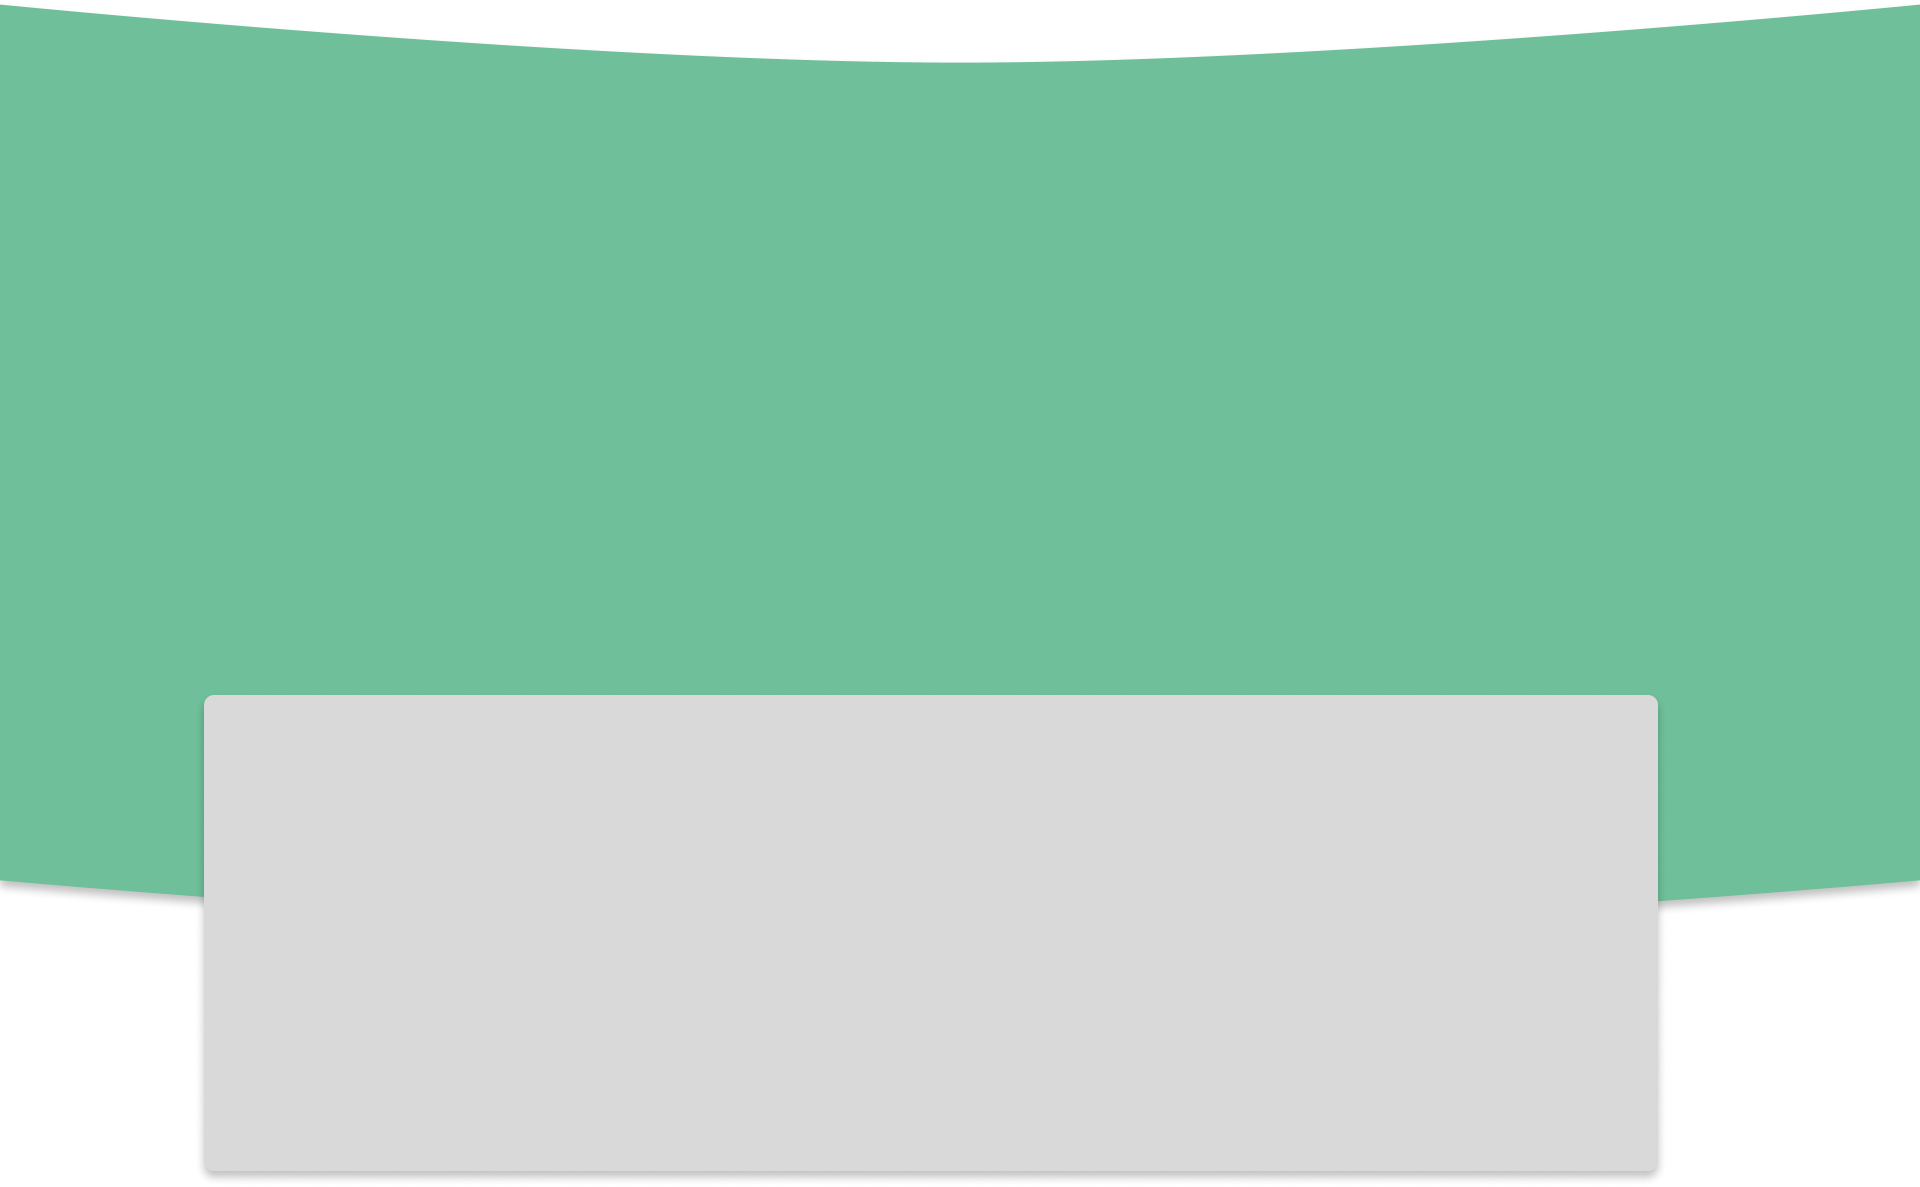
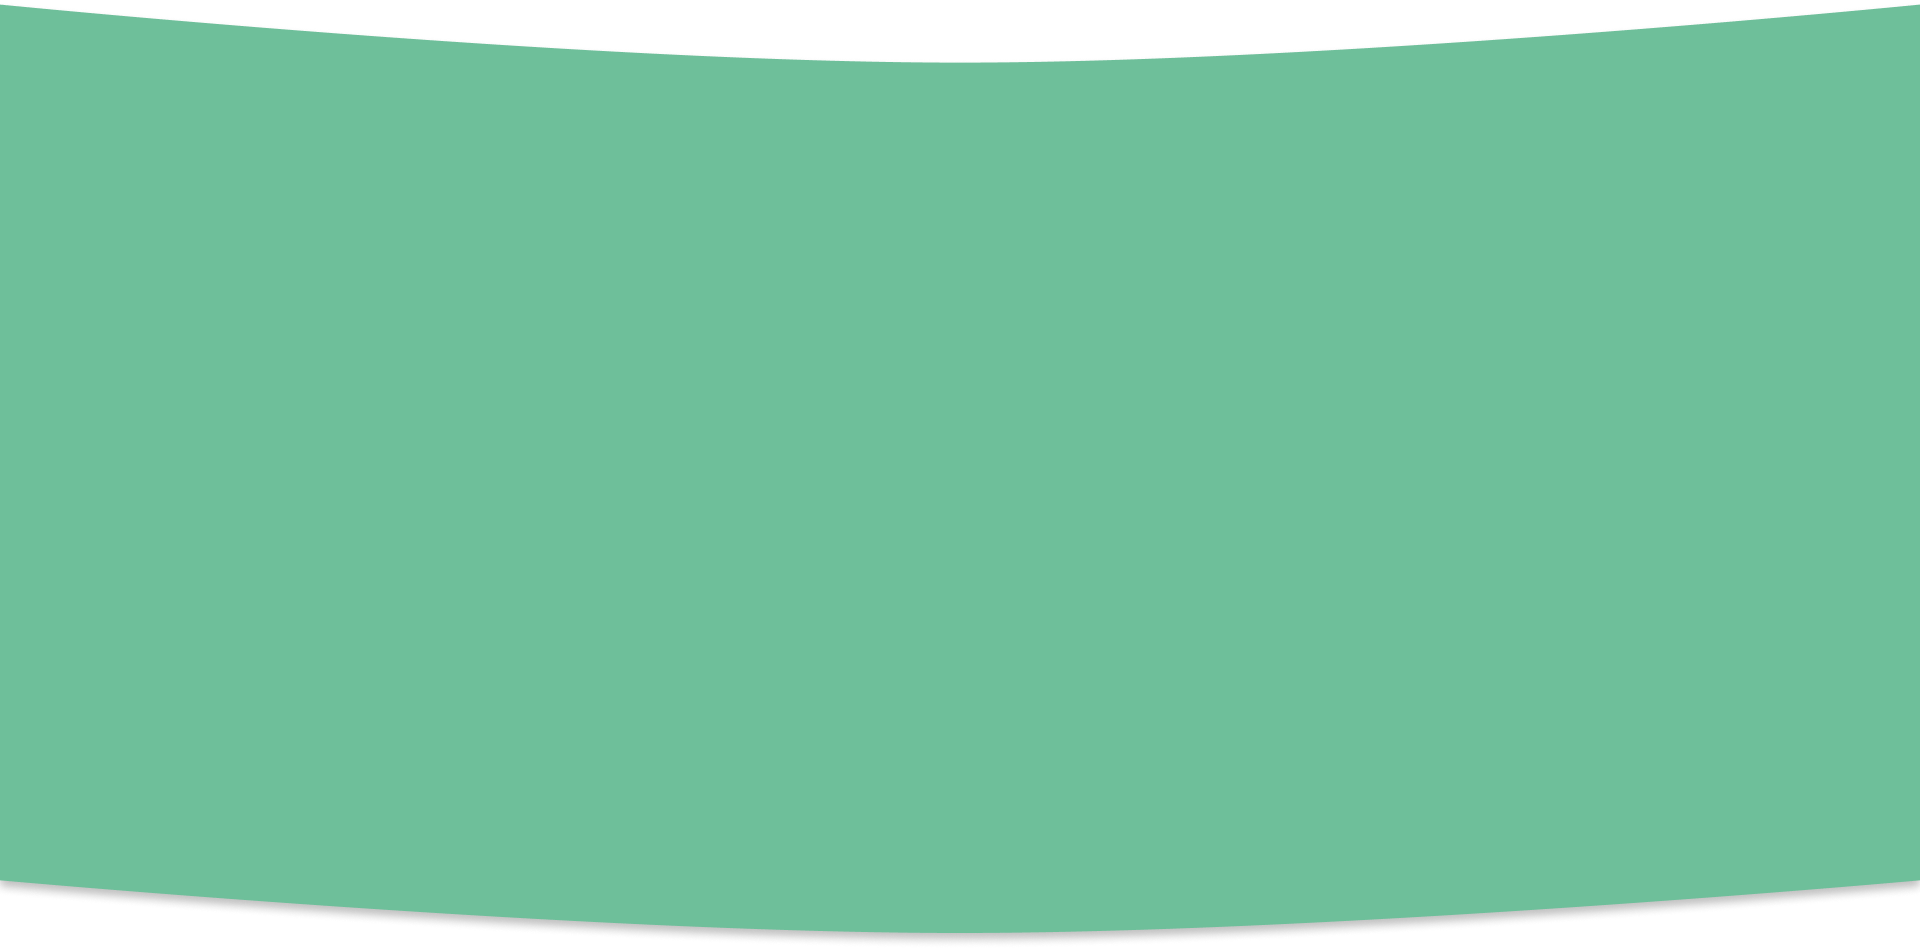
fix(Home) Img Argentina

diff --git a/Front-End/Us.html b/Front-End/Us.html
@@ -6,7 +6,7 @@
     <title>Satolution|Nosotros</title>
     <meta name='viewport' content='width=device-width, initial-scale=1'>
     <link rel='stylesheet' type='text/css' media='screen' href='Style/Us.css'>
-    <script src='#'></script>
+    <script src='Home.js'></script>
 </head>
 <script defer src="https://unpkg.com/alpinejs@3.x.x/dist/cdn.min.js"></script>
 <header x-data="{ open: false }" class="header" id="Head">
@@ -38,13 +38,10 @@
             <div class="SobreNos-Tiles">
                 <h1>Sobre nosotros</h1>
                 <p>Lorem ipsum dolor sit amet consectetur, adipisicing elit. Eligendi aspernatur quibusdam corrupti maiores? Deserunt doloribus ab minus expedita, voluptate eius excepturi. Sit repellendus fugit laudantium explicabo quidem ullam veniam earum?</p>
-                <p>Lorem ipsum dolor sit amet consectetur, adipisicing elit. Eligendi aspernatur quibusdam corrupti maiores? Deserunt doloribus ab minus expedita, voluptate eius excepturi. Sit repellendus fugit laudantium explicabo quidem ullam veniam earum?</p>
-                <p>Lorem ipsum dolor sit amet consectetur, adipisicing elit. Eligendi aspernatur quibusdam corrupti maiores? Deserunt doloribus ab minus expedita, voluptate eius excepturi. Sit repellendus fugit laudantium explicabo quidem ullam veniam earum?</p>
-            </div>
+                <p>Lorem ipsum dolor sit amet consectetur, adipisicing elit. Eligendi aspernatur quibusdam corrupti maiores? Deserunt doloribus ab minus expedita, voluptate eius excepturi. Sit repellendus fugit laudantium explicabo quidem ullam veniam earum?</p>            </div>
             <div class="SobreNos-img">
-                <img src="Fotos/ExampleUs.jpg">
-                <img src="Fotos/ExampleUs.jpg">
-                <img src="Fotos/ExampleUs.jpg">
+                <img src="Fotos/Nosotros-SobreNostros.png">
+
             </div>
         </div>
         <div class="Legal">

diff --git a/Front-End/Style/HomeStyle.css b/Front-End/Style/HomeStyle.css
@@ -162,7 +162,6 @@ body
     background-repeat: no-repeat;
     background-size: cover;
     background-position: center center;
-    color: #fff;
 }
 .BackGround-titles
 {
@@ -193,7 +192,8 @@ body
 .QueEs
 {
   padding: 0 15%;
-  margin-bottom: 10%;
+  padding-bottom: 10%;
+  background-color:#FAF7F0;
 }
 
 
@@ -221,8 +221,9 @@ body
   max-width: 25%;
   max-height: 40%;
   border-radius: 10px;
+  padding-top: 50px;
   /*Position*/
-  margin: 20px;      
+  margin: 20px;    
 }
 .box p
 {
@@ -244,6 +245,8 @@ body
   /*Box Directions*/
   display: flex;
   flex-direction: column;
+  background-color:#FAF7F0;
+
 }
 #PorqueEstamos-Titles
 {
@@ -303,9 +306,10 @@ body
 
 .Argentina-Titles
 {
-  margin-bottom: 25%;
+  margin-bottom: 5%;
   padding: 0 30%;
 }
+
 
 /*DIVISION*/
 

diff --git a/Front-End/index.html b/Front-End/index.html
@@ -87,6 +87,9 @@
                 <h3>¿Qué provoca esto en Argentina?</h3>
                 <h5>Lorem ipsum dolor sit amet consectetur adipisicing elit. Totam, eius laborum, beatae vitae dolores commodi tempore minus possimus doloremque rem magnam aliquam soluta hic impedit accusantium ullam doloribus odio quo.</h5>
             </div>
+            <div class="Que-Argentina-Box">
+                <img src="Fotos/Rectangle 167.png">
+            </div>
         </div>
         <div class="TextBox">
             <div class="Titles">

diff --git a/Front-End/Style/Us.css b/Front-End/Style/Us.css
@@ -145,7 +145,7 @@ body
 /*Form*/
 .BackGround
 {
-  background-image: url(../Fotos/unsplash_2qOTf5qx2_4.jpg);
+  background-image: url(../Fotos/Nosotros-BackGround.png);
   background-repeat: no-repeat;
   background-position: center top;
   height: 120vh;
